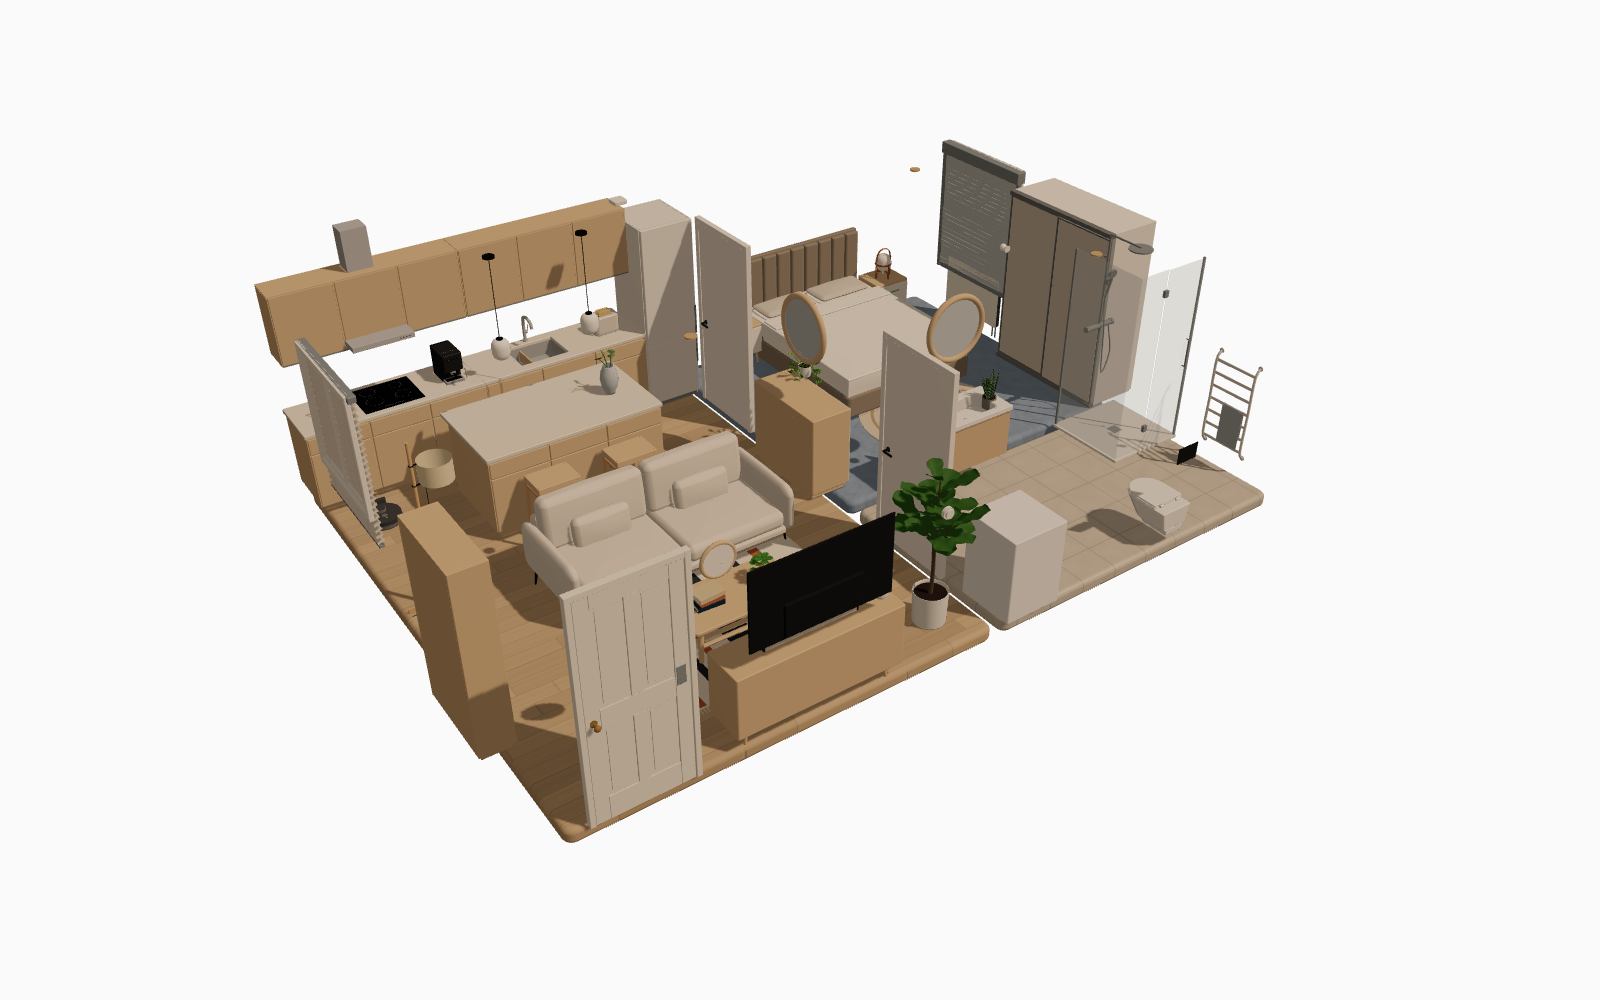
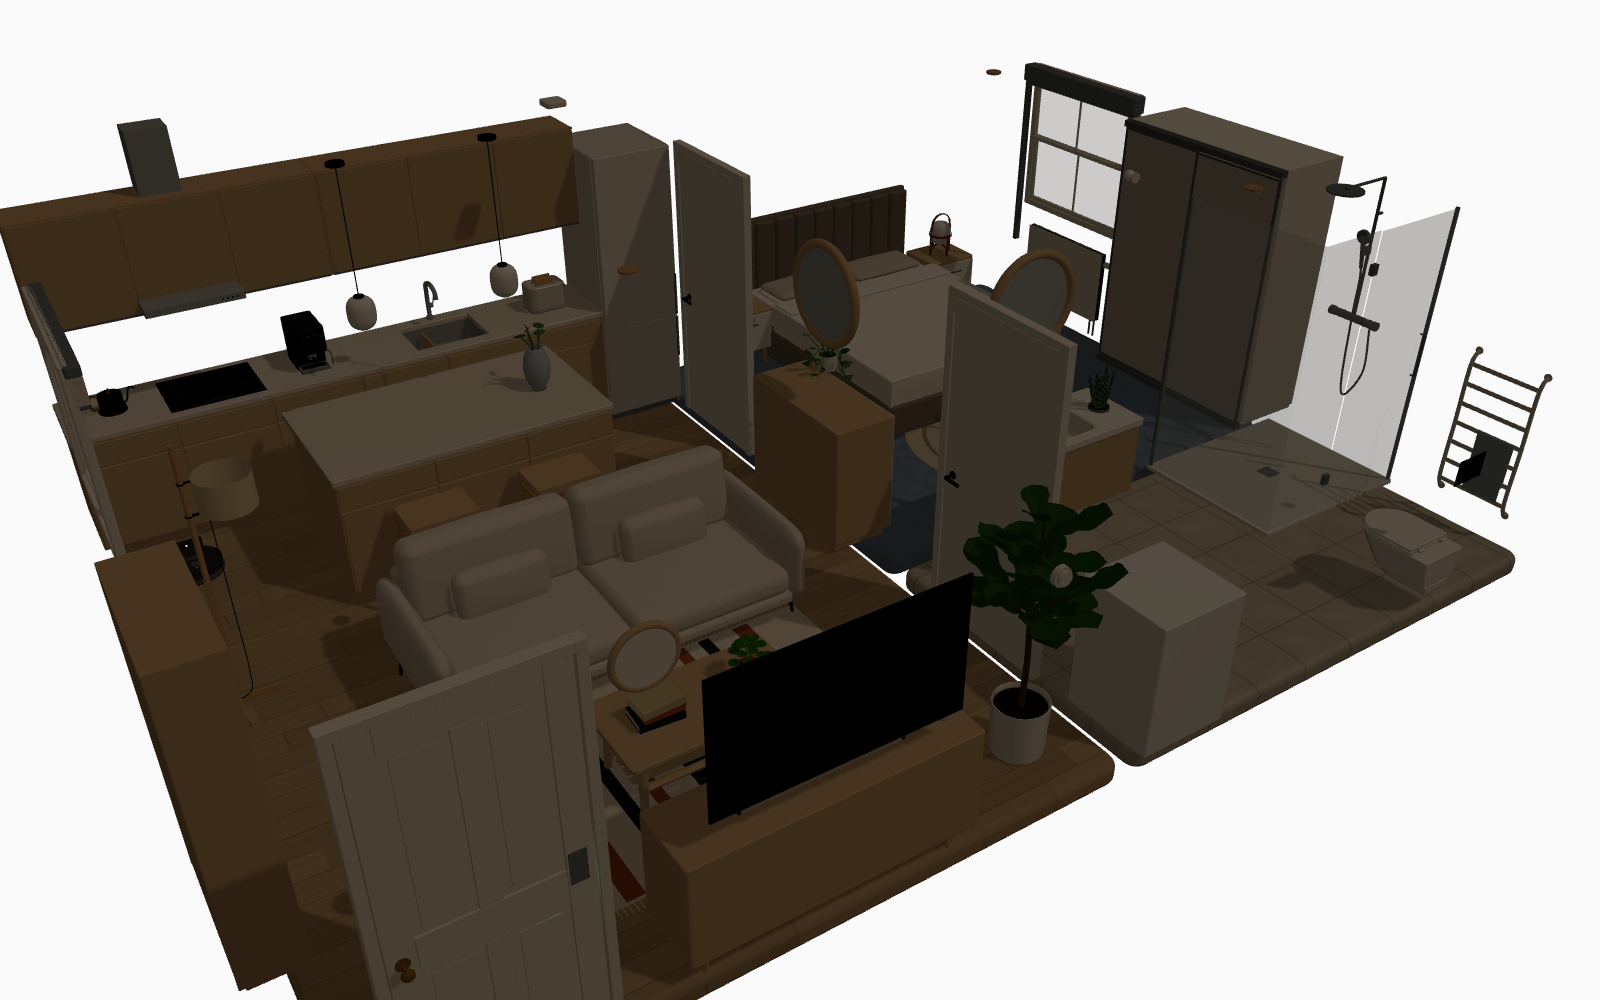
Retake the hero shots at dusk, rearrange the bathroom, and make the README and guide speak to their readers
The opening view sits closer to the flat and is lit by one lamp per room at a low sun, so the lights off and lights on pair shows the difference. The demo page takes a sun elevation for that. The bathroom gets a larger walk in shower with its glass facing the room, a wider vanity, and the toilet and washer along the near wall.

The README installs from the HACS search first and keeps the custom repository and manual routes folded away. The guide is now the development guide and says who it is for. CLAUDE.md gains the rule that every user visible change lands in the changelog with the change.

diff --git a/scripts/demoflat.plan.ts b/scripts/demoflat.plan.ts
@@ -127,14 +127,17 @@ wall('motion', 'motion_sensor', 'bedroom', [6.0, 2.2])
 // Bathroom: shower in the far corner, toilet and washing machine on the
 // bottom wall, the basin under a mirror on the top wall, and the door from
 // the living room.
-item('shower', 'shower', 'bathroom', [7.35, 1.75])
-item('toilet', 'toilet', 'bathroom', [6.3, 0.28], { variant: 'wall_hung', rotation: 180 })
+// A walk-in shower fills the far right corner, a wide vanity the wall
+// across from the door, and the toilet and the washer share the near wall.
+// Flipped so the glass faces the room and the fittings hang on the wall.
+item('shower', 'shower', 'bathroom', [7.15, 1.65], { params: { width: 1.3, depth: 1.1, flip: 1 } })
+item('toilet', 'toilet', 'bathroom', [6.7, 0.28], { variant: 'wall_hung', rotation: 180 })
 item('washer', 'washing_machine', 'bathroom', [4.55, 0.3], { rotation: 180 })
-item('basin', 'basin', 'bathroom', [5.4, 1.96], { variant: 'vanity' })
-item('basin_plant', 'plant_small', 'bathroom', [5.7, 1.96], { variant: 'snake', on: 'basin' })
-wall('bathroom_mirror', 'wall_mirror', 'bathroom', [5.4, 2.2], { variant: 'round' })
-wall('towel_rail', 'towel_rail', 'bathroom', [7.8, 0.7], { variant: 'ladder' })
-item('bathroom_light', 'light_ceiling', 'bathroom', [6.0, 1.1])
+item('basin', 'basin', 'bathroom', [5.2, 1.94], { variant: 'vanity', params: { width: 1.2, depth: 0.52 } })
+item('basin_plant', 'plant_small', 'bathroom', [5.65, 1.94], { variant: 'snake', on: 'basin' })
+wall('bathroom_mirror', 'wall_mirror', 'bathroom', [5.2, 2.2], { variant: 'round' })
+wall('towel_rail', 'towel_rail', 'bathroom', [7.8, 0.5], { variant: 'ladder' })
+item('bathroom_light', 'light_ceiling', 'bathroom', [5.6, 1.0])
 wall('bathroom_door', 'door', 'bathroom', [4.2, 1.3], { variant: 'flush' })
 
 // The devices behind the pieces. The entity ids are made up: in your own
@@ -195,7 +198,7 @@ export const DEMO_FLAT: CardConfig = {
   devices,
   decorations,
   // The view the card opens with: the whole flat from the front left corner.
-  camera: { position: [-2.5, 7.5, 6.5], target: [3.9, 0, -2.6] },
+  camera: { position: [-0.3, 5.0, 3.6], target: [3.9, 0.3, -2.8] },
 }
 
 // What the made up devices report, for the dev page. Every entity starts

diff --git a/src/dev/demoflat.tsx b/src/dev/demoflat.tsx
@@ -5,8 +5,9 @@
 //
 // Query parameters: `flip=light.bedroom,cover.living_blind` starts those
 // entities on, open or unlocked; `camera=x,y,z,tx,ty,tz` overrides the
-// opening view; `editor` shows the editor instead of the card. A click on a
-// piece flips its entity, the way Home Assistant would.
+// opening view; `sun=6` puts the sun at that elevation in degrees, so the
+// room can be shot at dusk; `editor` shows the editor instead of the card.
+// A click on a piece flips its entity, the way Home Assistant would.
 import type { CardConfig, HomeAssistant } from '#/types.ts'
 import { DEMO_AREAS, DEMO_ENTITIES, DEMO_FLAT, DEMO_STATES, flip } from '../../scripts/demoflat.plan.ts'
 
@@ -15,6 +16,17 @@ await import('#/main.tsx')
 const params = new URLSearchParams(location.search)
 const states = structuredClone(DEMO_STATES)
 for (const id of (params.get('flip') ?? '').split(',')) if (states[id]) flip(states[id])
+const sun = Number(params.get('sun'))
+if (params.has('sun') && Number.isFinite(sun)) {
+  const now = new Date().toISOString()
+  states['sun.sun'] = {
+    entity_id: 'sun.sun',
+    state: sun > 0 ? 'above_horizon' : 'below_horizon',
+    attributes: { elevation: sun },
+    last_changed: now,
+    last_updated: now,
+  }
+}
 
 const config: CardConfig = { ...DEMO_FLAT, aspect_ratio: `${innerWidth} / ${innerHeight}` }
 const camera = params.get('camera')?.split(',').map(Number)

diff --git a/README.md b/README.md
@@ -4,7 +4,7 @@ A Home Assistant card that turns your home into a small 3D model you can click.
 
 Draw your rooms, furnish them from a catalog of sofas, lamps, doors, blinds, appliances and sensors, then bind the pieces to your real Home Assistant devices. The model shows what your home is doing right now: a lamp glows when the light is on, a blind sits where the cover is, a door swings open when the sensor says so. Click a piece and the device behind it toggles.
 
-![The demo flat in the evening, every light on](docs/images/hero.png)
+![The demo flat at dusk with one lamp on in each room](docs/images/hero.png)
 
 ## What you get
 
@@ -14,9 +14,9 @@ Draw your rooms, furnish them from a catalog of sofas, lamps, doors, blinds, app
 - **Camera views.** Save the view the card opens with and one per room. Clicking a room's floor flies there, and a reset button brings you back.
 - **Light that matters.** Lights cast real light and shadows in their room, with brightness and color temperature taken from the entity.
 
-| Everything off                                                                      | Everything on                                                                |
-| ----------------------------------------------------------------------------------- | ---------------------------------------------------------------------------- |
-| ![The demo flat with every light off and the blinds down](docs/images/hero-off.png) | ![The demo flat with every light on and the blinds up](docs/images/hero.png) |
+| Lights off                                                              | Lights on                                                            |
+| ----------------------------------------------------------------------- | -------------------------------------------------------------------- |
+| ![The demo flat at dusk with every light off](docs/images/hero-off.png) | ![The same view with one lamp on in each room](docs/images/hero.png) |
 
 ## A closer look
 
@@ -48,22 +48,31 @@ How to record it (about 30 seconds, no audio):
 
 ## Install
 
-### HACS
+1. In Home Assistant open **HACS**, search for **Floorplan 3D** and download it. HACS registers the card's resource for you.
+2. Reload the browser.
+3. Edit a dashboard, choose **Add card** and search for **Floorplan 3D**.
 
-Until the card is in the HACS default list, add it as a custom repository.
+Updates arrive through HACS like any other card. If a new version does not show up after updating, clear the browser cache. The card logs its version in the browser console on load, so a stale copy is easy to spot.
+
+<details>
+<summary>Not in your HACS search yet? Add it as a custom repository</summary>
 
 1. In HACS open the three-dot menu in the top right and choose **Custom repositories**.
 2. Paste `https://github.com/CarlesRojas/ha-floorplan`, pick the **Dashboard** type and add it.
-3. Search for **Floorplan 3D** in HACS and download it. HACS registers the `card.js` resource for you.
-4. Reload the browser, edit a dashboard, **Add card** and search for **Floorplan 3D**.
+3. Search for **Floorplan 3D** in HACS and download it, then follow the steps above.
 
-### Manual
+</details>
+
+<details>
+<summary>Install by hand, without HACS</summary>
 
 1. Download `card.js` from the [latest release](https://github.com/CarlesRojas/ha-floorplan/releases/latest) into `config/www/floorplan-3d/card.js`.
 2. In **Settings > Dashboards**, open the three-dot menu, choose **Resources** and add `/local/floorplan-3d/card.js` as a **JavaScript module**.
-3. Edit a dashboard, **Add card** and search for **Floorplan 3D**.
+3. Edit a dashboard, choose **Add card** and search for **Floorplan 3D**.
 
-When you update, bump the `?v=` query on the resource URL or clear the browser cache. The card logs its version in the browser console on load, so a stale copy is easy to spot.
+When you update, bump a `?v=` query on the resource URL so browsers pick up the new file.
+
+</details>
 
 ## Start building
 
@@ -71,4 +80,4 @@ Add the card, press **Open editor** and trace your first room. Then open the cat
 
 For a furnished starting point, paste [demoflat.yaml](demoflat.yaml) into a card's YAML editor. It is the flat in the screenshots above, with entity ids you can swap for your own.
 
-The full reference, from every editor command to the card config and local development, is in the [guide](docs/GUIDE.md). Changes are listed in the [changelog](CHANGELOG.md).
+Changes are listed in the [changelog](CHANGELOG.md). If you want to work on the card itself, the [development guide](docs/DEVELOPMENT.md) covers the local setup, the editor internals, the catalog and the card config format.

diff --git a/CLAUDE.md b/CLAUDE.md
@@ -14,7 +14,7 @@ Keep working on the same branch and pull request while it is open, whatever the 
 
 ## Project
 
-Custom Lovelace card for Home Assistant: a 3D model of the flat with entities bound to objects. React + Three.js, Vite in lib mode building a single `dist/card.js`. See `docs/GUIDE.md` for the local Home Assistant setup and the full reference; `README.md` is the short public pitch and install guide.
+Custom Lovelace card for Home Assistant: a 3D model of the flat with entities bound to objects. React + Three.js, Vite in lib mode building a single `dist/card.js`. See `docs/DEVELOPMENT.md` for the local Home Assistant setup and the full reference; `README.md` is the short public pitch and install guide for people who are not developers.
 
 - Package manager: pnpm. `pnpm build` runs tsc and vite, `pnpm lint` runs oxlint, `pnpm watch` rebuilds on change.
 - Styling: Tailwind v4, injected into the card's shadow root from `src/index.css`. Use the `cn` helper from `src/lib/utils.ts`.
@@ -22,3 +22,7 @@ Custom Lovelace card for Home Assistant: a 3D model of the flat with entities bo
 - Write in plain sentences. Never use em dashes, in code comments, commit messages, or docs.
 - When giving the user card YAML, always give the complete card config, never a fragment to merge.
 - `showroom.yaml` is a card with every decoration kind in its own row and each of its styles along it, at default sizes and colors. Run `pnpm showroom` to regenerate it after any change to the catalog, and commit it with that change. Do not send it to the user.
+
+## Changelog
+
+`CHANGELOG.md` follows Keep a Changelog. Every change a user of the card would notice goes under `## [Unreleased]` in the same commit as the change: a new feature or piece under `### Added`, a change in behavior under `### Changed`, a bug fix under `### Fixed`, something taken away under `### Removed`. Write each entry as one plain sentence about what the user sees, not about the code. Internal refactors, tooling and dev pages do not go in. Never add a version heading by hand: the Release workflow moves the Unreleased entries under the new version when it publishes.

diff --git a/docs/DEVELOPMENT.md b/docs/DEVELOPMENT.md
@@ -1,6 +1,8 @@
-# Floorplan 3D guide
+# Floorplan 3D development guide
 
-The long version: local development against a Home Assistant instance, every editor command, the catalog, how pieces show device state, and the full card config. For what the card is and how to install it from HACS, see the [README](../README.md).
+This guide is for people working on the card's code. If you only want to use the card in your Home Assistant, you do not need it: install it from HACS as the [README](../README.md) explains, and build your home in the card's own editor.
+
+It covers running the card from source against a local Home Assistant, the editor's commands, the catalog, how pieces show device state, and the card config format that the editor writes.
 
 Custom Lovelace card for Home Assistant: an interactive 3D model of the flat with lights, blinds and sensors bound to entities. React + Three.js, built with Vite into a single `dist/card.js`.
 
